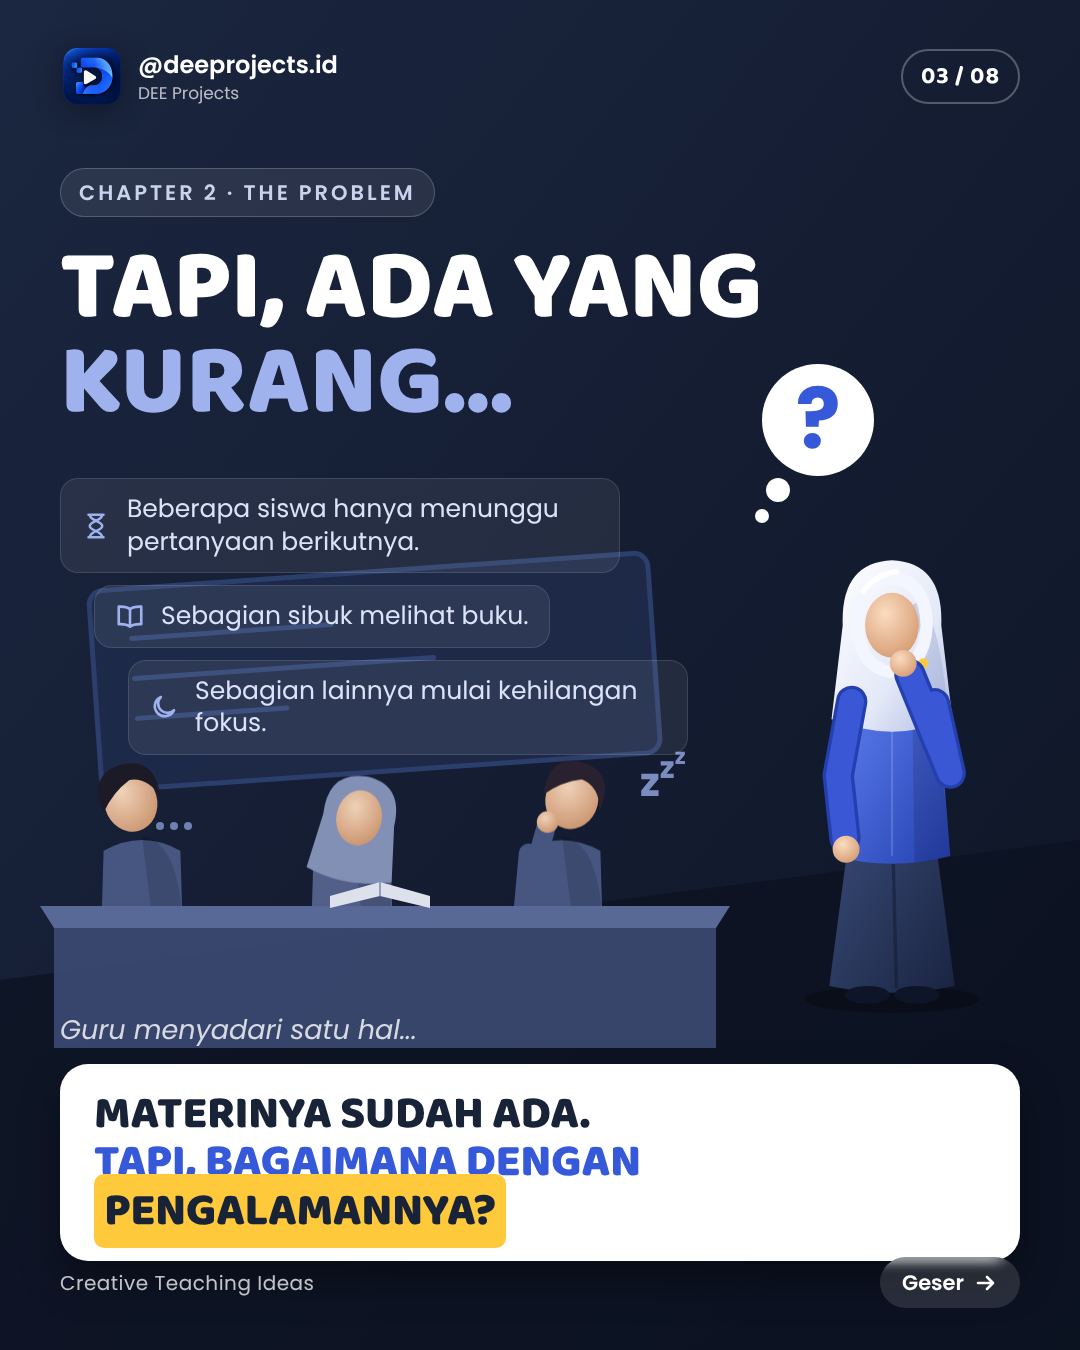
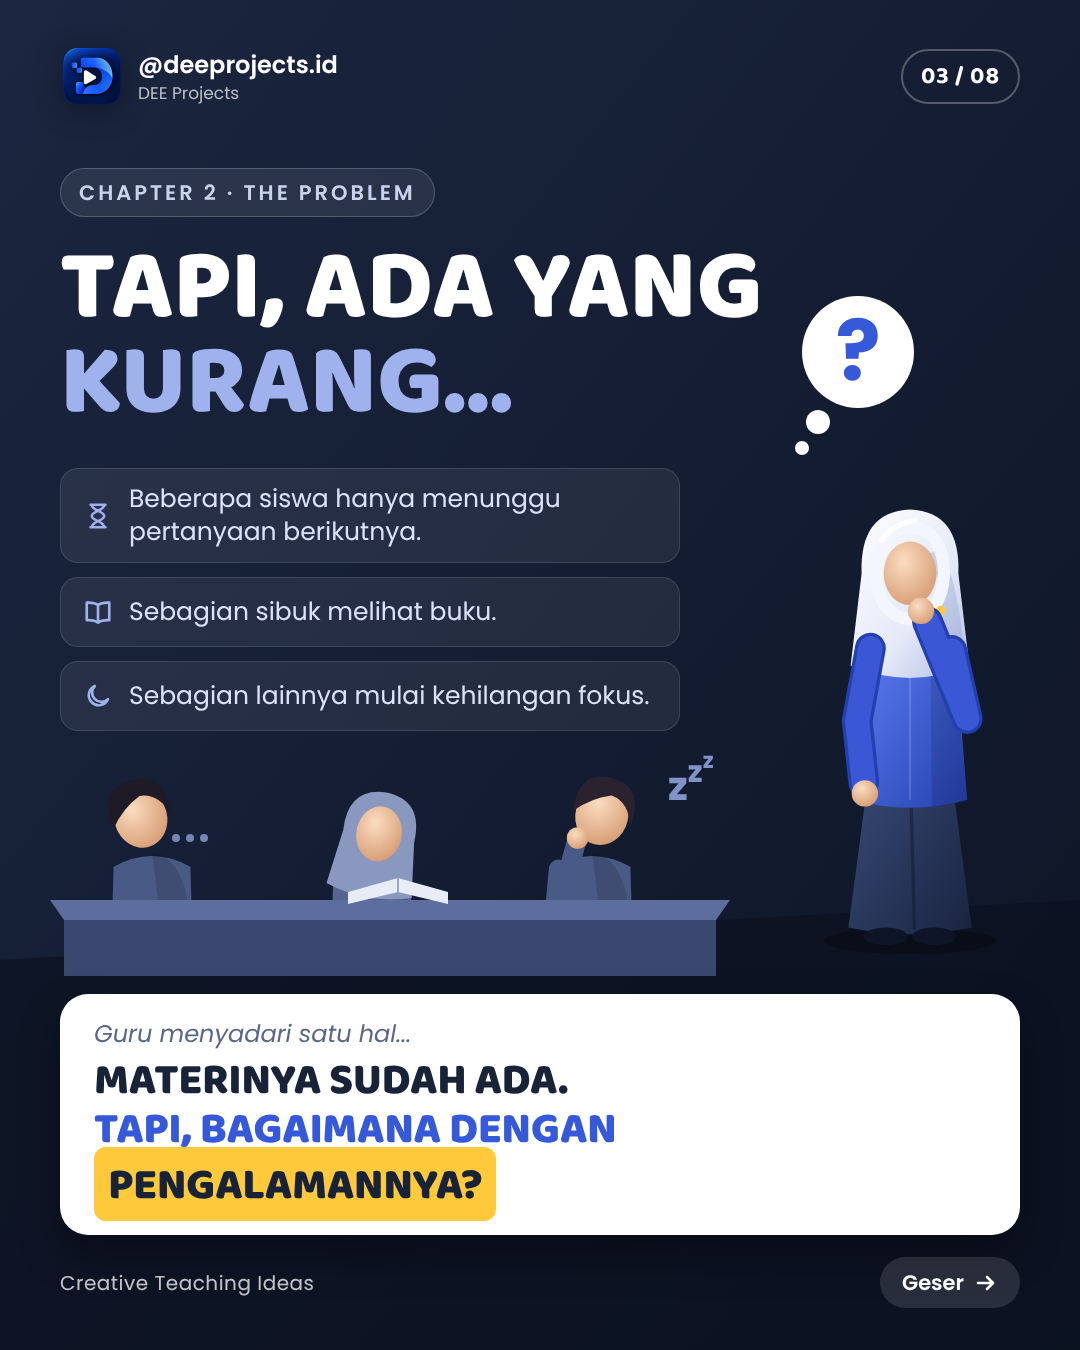
Tidy slide 3 layout: aligned notes, spacing, highlight box
Claude-Session: https://claude.ai/code/session_01NvhobE7w3mnUz6d6jf2Phj

Changed region(s): [[0.0306, 0.3422, 0.9472, 0.9644], [0.7028, 0.2178, 0.8556, 0.3733]]

diff --git a/content/post-03/carousel.html b/content/post-03/carousel.html
@@ -225,18 +225,13 @@
       <linearGradient id="bg3" x1="0" y1="0" x2="1" y2="1"><stop offset="0" stop-color="#1B2640"/><stop offset="1" stop-color="#0D1424"/></linearGradient>
     </defs>
     <rect width="1080" height="1350" fill="url(#bg3)"/>
-    <path d="M0 980 L1080 840 L1080 1350 L0 1350Z" fill="#0B111F" opacity=".7"/>
-    <!-- board behind, tilted -->
-    <g transform="rotate(-4 540 600)" opacity=".9">
-      <rect x="90" y="560" width="560" height="200" rx="14" fill="#1E2B4A" stroke="#2F4272" stroke-width="5"/>
-      <g stroke="#3D5490" stroke-width="5" stroke-linecap="round" opacity=".7"><path d="M130 610h200M130 650h300M130 690h150"/></g>
-    </g>
+    <path d="M0 960 L1080 900 L1080 1350 L0 1350Z" fill="#0B111F" opacity=".7"/>
     <!-- students row -->
-    <g id="studs3" transform="translate(0 26)"></g>
+    <g id="studs3" transform="translate(0 0)"></g>
     <!-- teacher -->
-    <g id="t3" transform="translate(780 520) scale(1.12)"></g>
+    <g id="t3" transform="translate(800 470) scale(1.1)"></g>
     <!-- thought bubble -->
-    <g transform="translate(760 420)">
+    <g transform="translate(800 352)">
       <circle cx="58" cy="0" r="56" fill="#fff"/>
       <circle cx="18" cy="70" r="12" fill="#fff"/><circle cx="2" cy="96" r="7" fill="#fff"/>
       <text x="58" y="28" text-anchor="middle" font-family="Baloo 2" font-weight="800" font-size="84" fill="#3659D9">?</text>
@@ -248,22 +243,21 @@
       <div class="kicker" style="background:rgba(255,255,255,.08);color:#C9D3EE;border-color:rgba(255,255,255,.2)">Chapter 2 · The Problem</div>
       <h1 style="font-size:100px;line-height:.95;margin-top:24px">TAPI, ADA YANG<br><span style="color:#9FB2EE">KURANG...</span></h1>
     </div>
-    <div style="position:absolute;top:478px;left:60px;width:600px;display:flex;flex-direction:column;gap:12px">
+    <div style="position:absolute;top:468px;left:60px;width:620px;display:flex;flex-direction:column;gap:14px">
       <div class="obs"><svg width="30" height="30"><use href="#i-hourglass"/></svg>Beberapa siswa hanya menunggu pertanyaan berikutnya.</div>
-      <div class="obs" style="margin-left:34px"><svg width="30" height="30"><use href="#i-book"/></svg>Sebagian sibuk melihat buku.</div>
-      <div class="obs" style="margin-left:68px"><svg width="30" height="30"><use href="#i-moon"/></svg>Sebagian lainnya mulai kehilangan fokus.</div>
+      <div class="obs"><svg width="30" height="30"><use href="#i-book"/></svg>Sebagian sibuk melihat buku.</div>
+      <div class="obs"><svg width="30" height="30"><use href="#i-moon"/></svg>Sebagian lainnya mulai kehilangan fokus.</div>
     </div>
-    <div style="position:absolute;top:1010px;left:60px;right:60px">
-      <p style="font-size:27px;font-style:italic;opacity:.8;margin-bottom:14px">Guru menyadari satu hal...</p>
-      <div style="background:#fff;color:var(--navy);border-radius:28px;padding:26px 34px;box-shadow:0 20px 40px rgba(0,0,0,.35);position:relative">
-        <div class="baloo" style="font-size:46px;line-height:1.05">MATERINYA SUDAH ADA.</div>
-        <div class="baloo" style="font-size:46px;line-height:1.05;color:var(--blue)">TAPI, BAGAIMANA DENGAN <span style="background:var(--yellow);color:var(--navy);padding:0 10px;border-radius:10px">PENGALAMANNYA?</span></div>
-      </div>
+    <div style="position:absolute;top:994px;left:60px;right:60px;background:#fff;color:var(--navy);border-radius:28px;padding:22px 34px 24px;box-shadow:0 20px 40px rgba(0,0,0,.35)">
+      <p style="font-size:24px;font-style:italic;color:#5A6685;margin-bottom:6px">Guru menyadari satu hal...</p>
+      <div class="baloo" style="font-size:44px;line-height:1.12">MATERINYA SUDAH ADA.</div>
+      <div class="baloo" style="font-size:44px;line-height:1.12;color:var(--blue)">TAPI, BAGAIMANA DENGAN</div>
+      <div class="baloo" style="font-size:44px;line-height:1.12;margin-top:6px"><span style="background:var(--yellow);color:var(--navy);padding:4px 14px 0;border-radius:12px">PENGALAMANNYA?</span></div>
     </div>
     <div class="bottom"><div class="tag">Creative Teaching Ideas</div><div class="swipe">Geser <svg width="24" height="24"><use href="#i-arrow"/></svg></div></div>
   </div>
   <style>
-    .obs{display:flex;align-items:center;gap:16px;font-size:25px;line-height:1.3;padding:14px 20px;border-radius:18px;background:rgba(255,255,255,.07);border:1.5px solid rgba(255,255,255,.12);color:#DCE3F8;width:max-content;max-width:560px}
+    .obs{display:flex;align-items:center;gap:16px;font-size:25px;line-height:1.3;padding:14px 22px;border-radius:18px;background:rgba(255,255,255,.07);border:1.5px solid rgba(255,255,255,.12);color:#DCE3F8;width:100%;min-height:70px}
     .obs svg{flex:none;color:#9FB2EE}
   </style>
 </section>
@@ -620,15 +614,13 @@ document.getElementById('t6').innerHTML = teacher('Lup','Rup');
 
 // slide 3 — disengaged class (muted palette)
 document.getElementById('studs3').innerHTML = `
-  <g opacity=".95">
-  ${student({x:70,y:700,s:1.2,shirt:'#4A5A86',hair:'#1E1A26',tilt:-16,drop:6})}
-  ${student({x:280,y:700,s:1.2,shirt:'#56658F',hijab:'#8A97BE',tilt:10,drop:20})}
-  ${student({x:490,y:700,s:1.2,shirt:'#4A5A86',hair:'#2B2230',chin:true,tilt:14,drop:4})}
-  ${desk(40,880,690).replace('url(#gDeskTop)','#5D6E9E').replace('url(#gDesk)','#3A4870')}
-  <g transform="translate(330 852)"><path d="M0 18 L50 4 L100 18 L100 30 L50 18 L0 30Z" fill="#E8ECF7"/><path d="M50 4 V18" stroke="#9AA6C4" stroke-width="2"/></g>
-  <text x="640" y="770" font-family="Baloo 2" font-weight="800" font-size="40" fill="#9FB2EE" opacity=".8">z<tspan font-size="30" dy="-18">z</tspan><tspan font-size="22" dy="-14">z</tspan></text>
-  <g transform="translate(160 800)" fill="#9FB2EE" opacity=".7"><circle cx="0" cy="0" r="4"/><circle cx="14" cy="0" r="4"/><circle cx="28" cy="0" r="4"/></g>
-  </g>`;
+  ${student({x:80,y:742,s:1.2,shirt:'#4A5A86',hair:'#1E1A26',tilt:-16,drop:6})}
+  ${student({x:300,y:742,s:1.2,shirt:'#56658F',hijab:'#8A97BE',tilt:10,drop:20})}
+  ${student({x:520,y:742,s:1.2,shirt:'#4A5A86',hair:'#2B2230',chin:true,tilt:14,drop:4})}
+  <g><path d="M50 900 h680 l-14 20 h-652z" fill="#5D6E9E"/><rect x="64" y="920" width="652" height="56" fill="#3A4870"/></g>
+  <g transform="translate(348 874)"><path d="M0 18 L50 4 L100 18 L100 30 L50 18 L0 30Z" fill="#E8ECF7"/><path d="M50 4 V18" stroke="#9AA6C4" stroke-width="2"/></g>
+  <text x="668" y="800" font-family="Baloo 2" font-weight="800" font-size="40" fill="#9FB2EE" opacity=".8">z<tspan font-size="30" dy="-18">z</tspan><tspan font-size="22" dy="-14">z</tspan></text>
+  <g transform="translate(176 838)" fill="#9FB2EE" opacity=".7"><circle cx="0" cy="0" r="4"/><circle cx="14" cy="0" r="4"/><circle cx="28" cy="0" r="4"/></g>`;
 
 // slide 6 — two active teams
 document.getElementById('studs6').innerHTML = `
